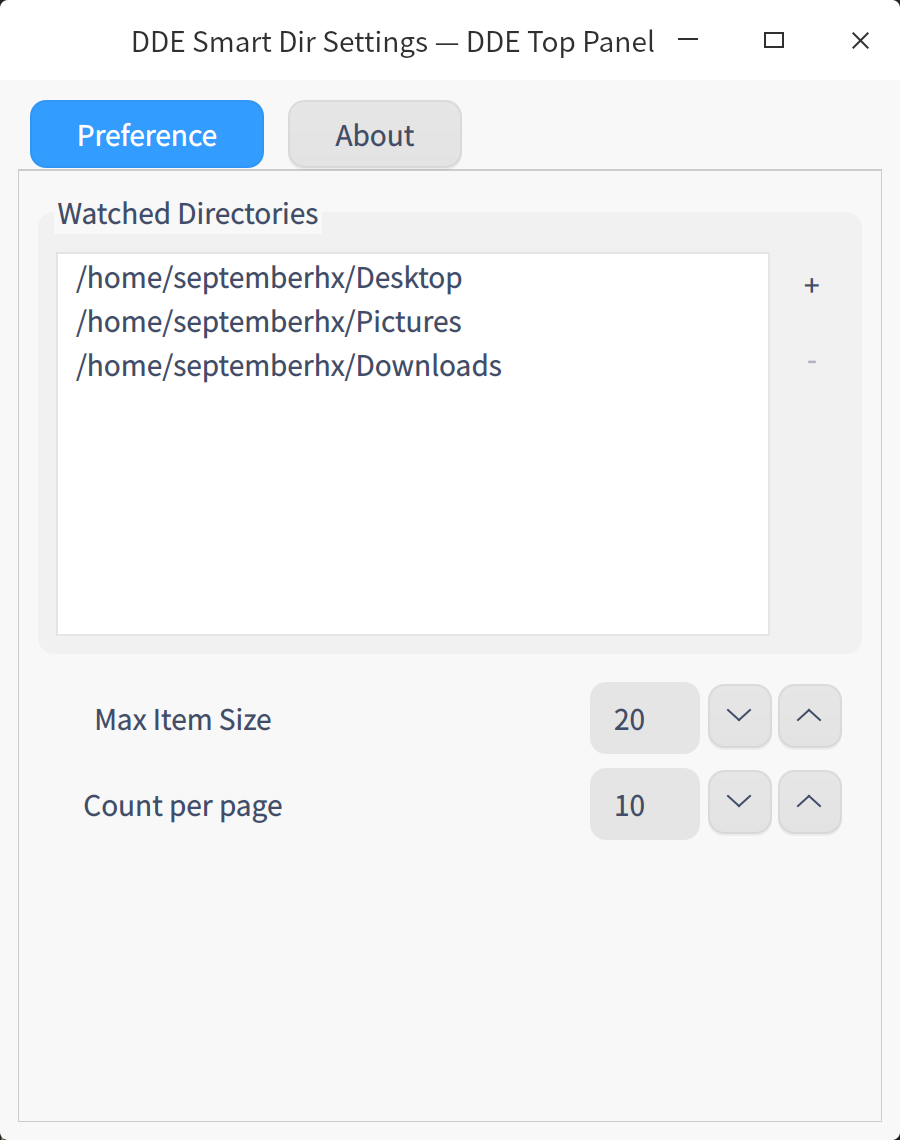
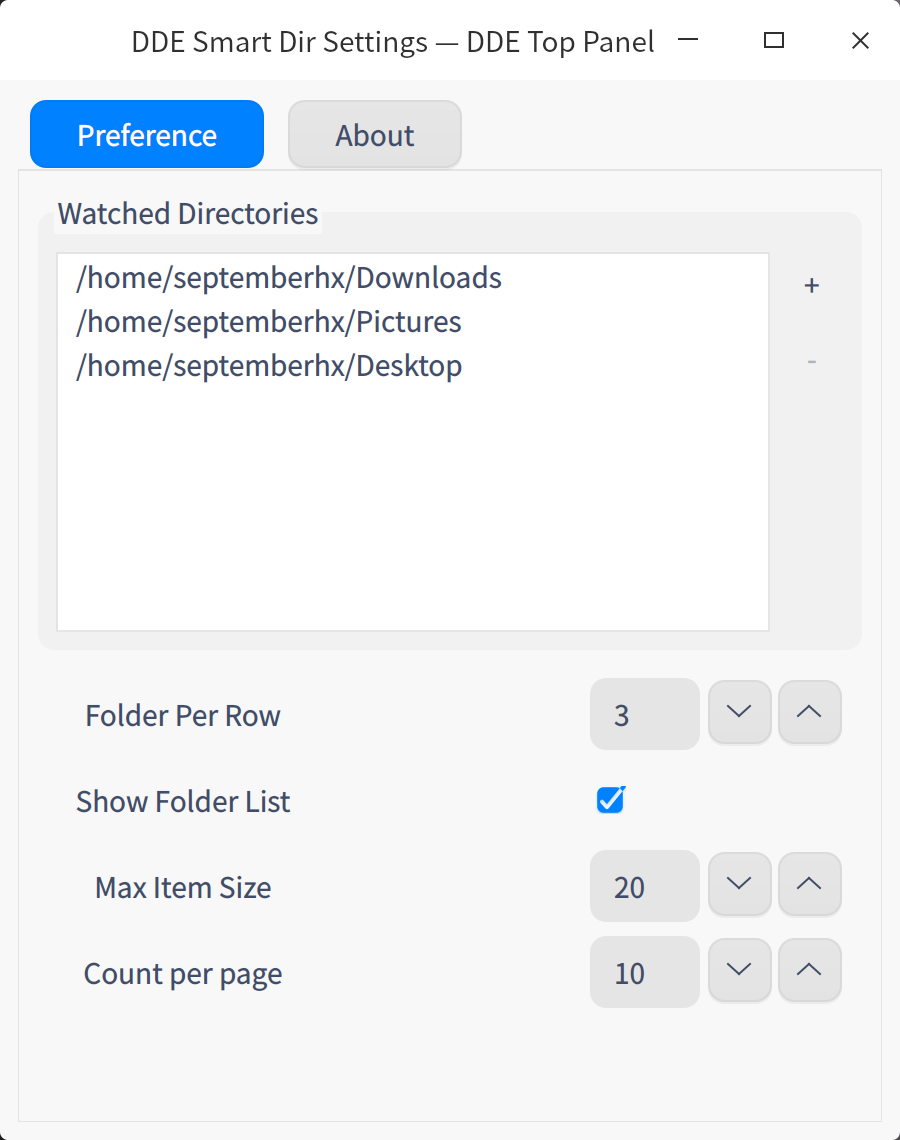
update readme

diff --git a/readme.md b/readme.md
@@ -9,11 +9,12 @@ You can set a list of folders you want to watch, and this plugin can show the fi
 * Left double click to open file
 * drag & move support
 * right click to open folder
+* quick folder list
 
 ## Screenshot
 
-<img src="./screenshots/screenshot1.png" width="400px" /> <img src="./screenshots/screenshot2.png" width="400px" />
-<img src="./screenshots/fan_style.png" width="400px" />
+<img src="./screenshots/screenshot1.png" width="400px" /> <img src="./screenshots/screenshot1-2.png" width="400px" />
+<img src="./screenshots/screenshot2.png" width="400px" /> <img src="./screenshots/fan_style.png" width="400px" />
 
 > fan style is hardcoded so it is coded for panel.
 
